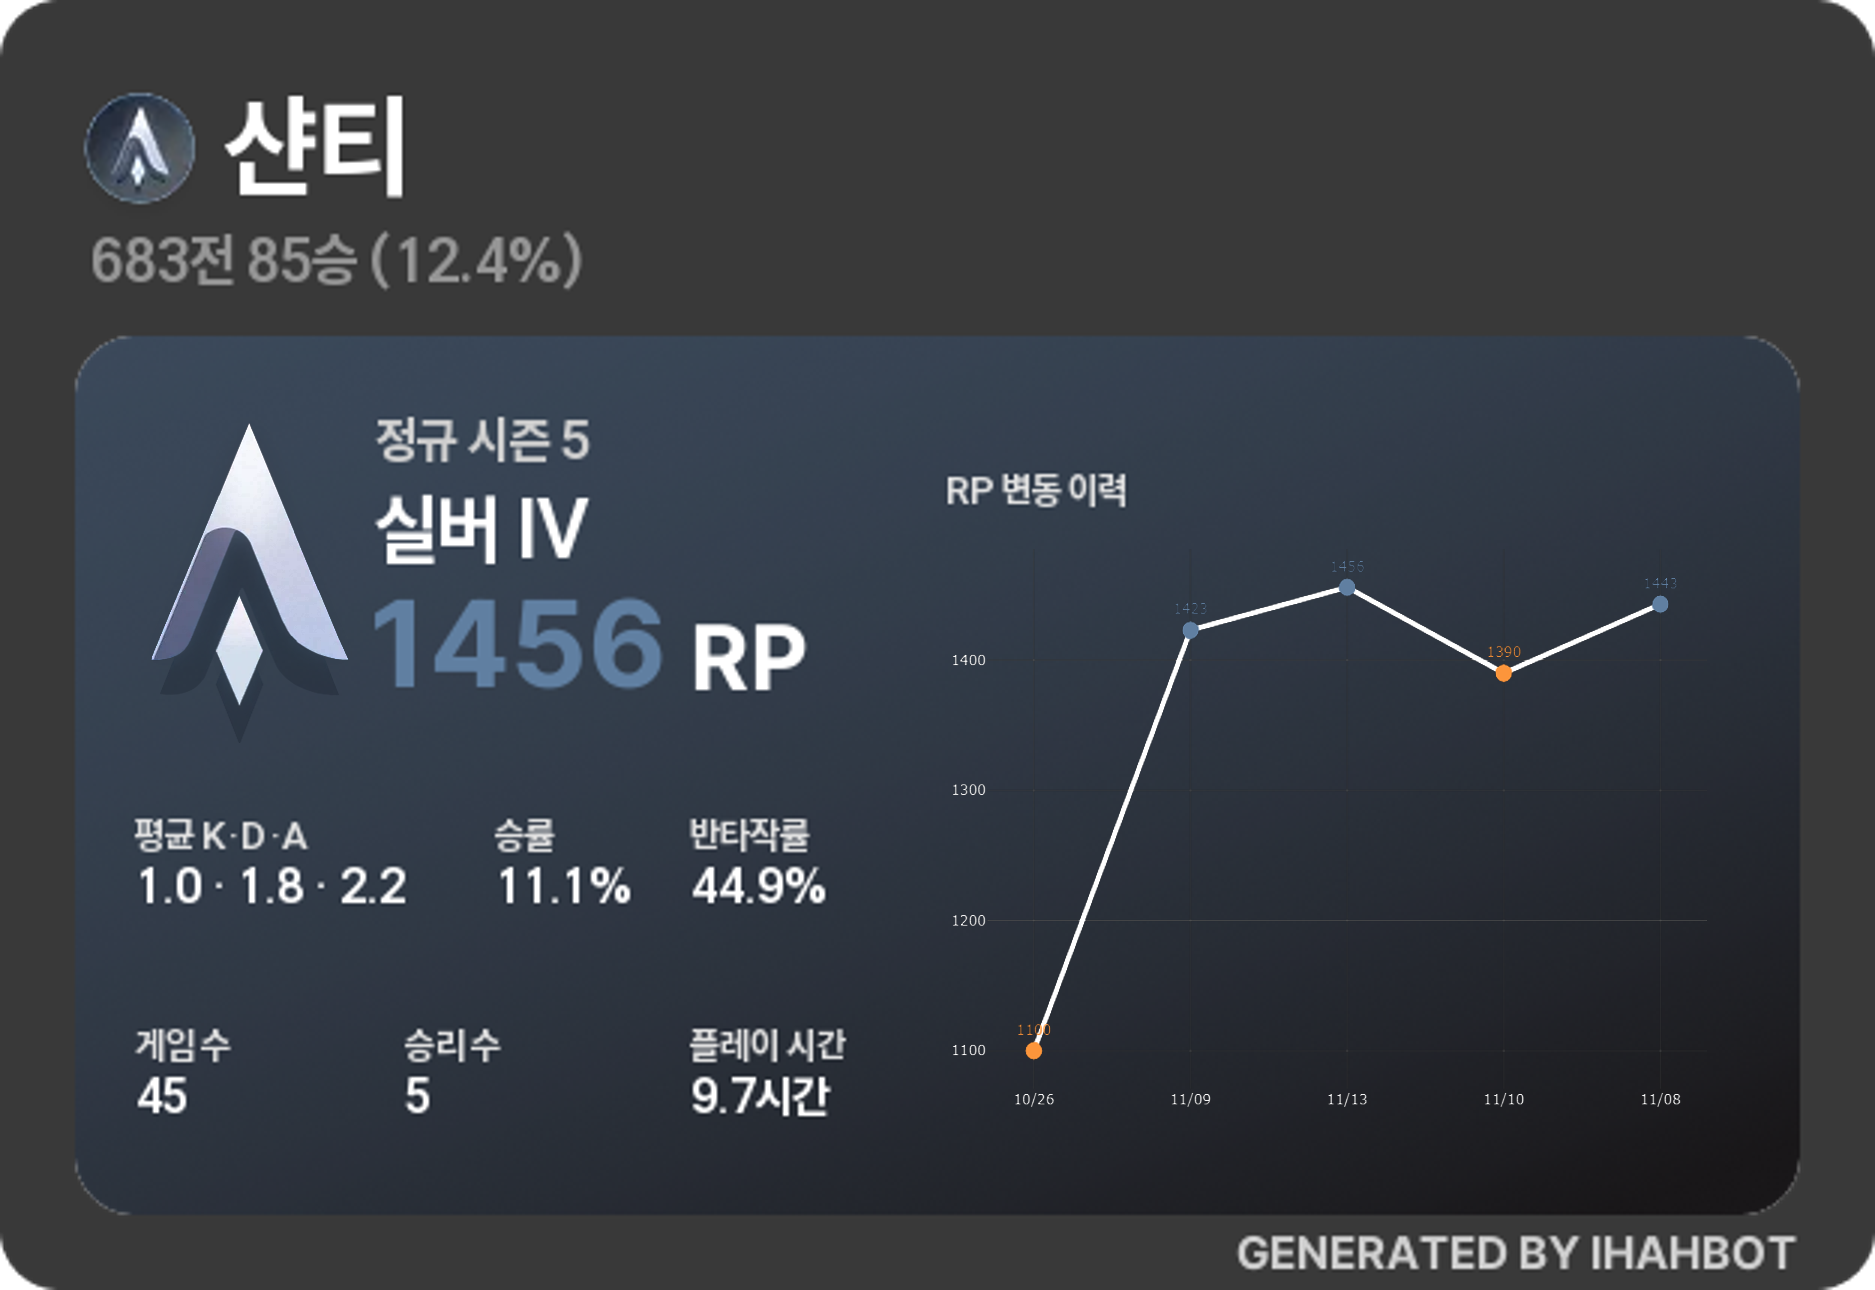
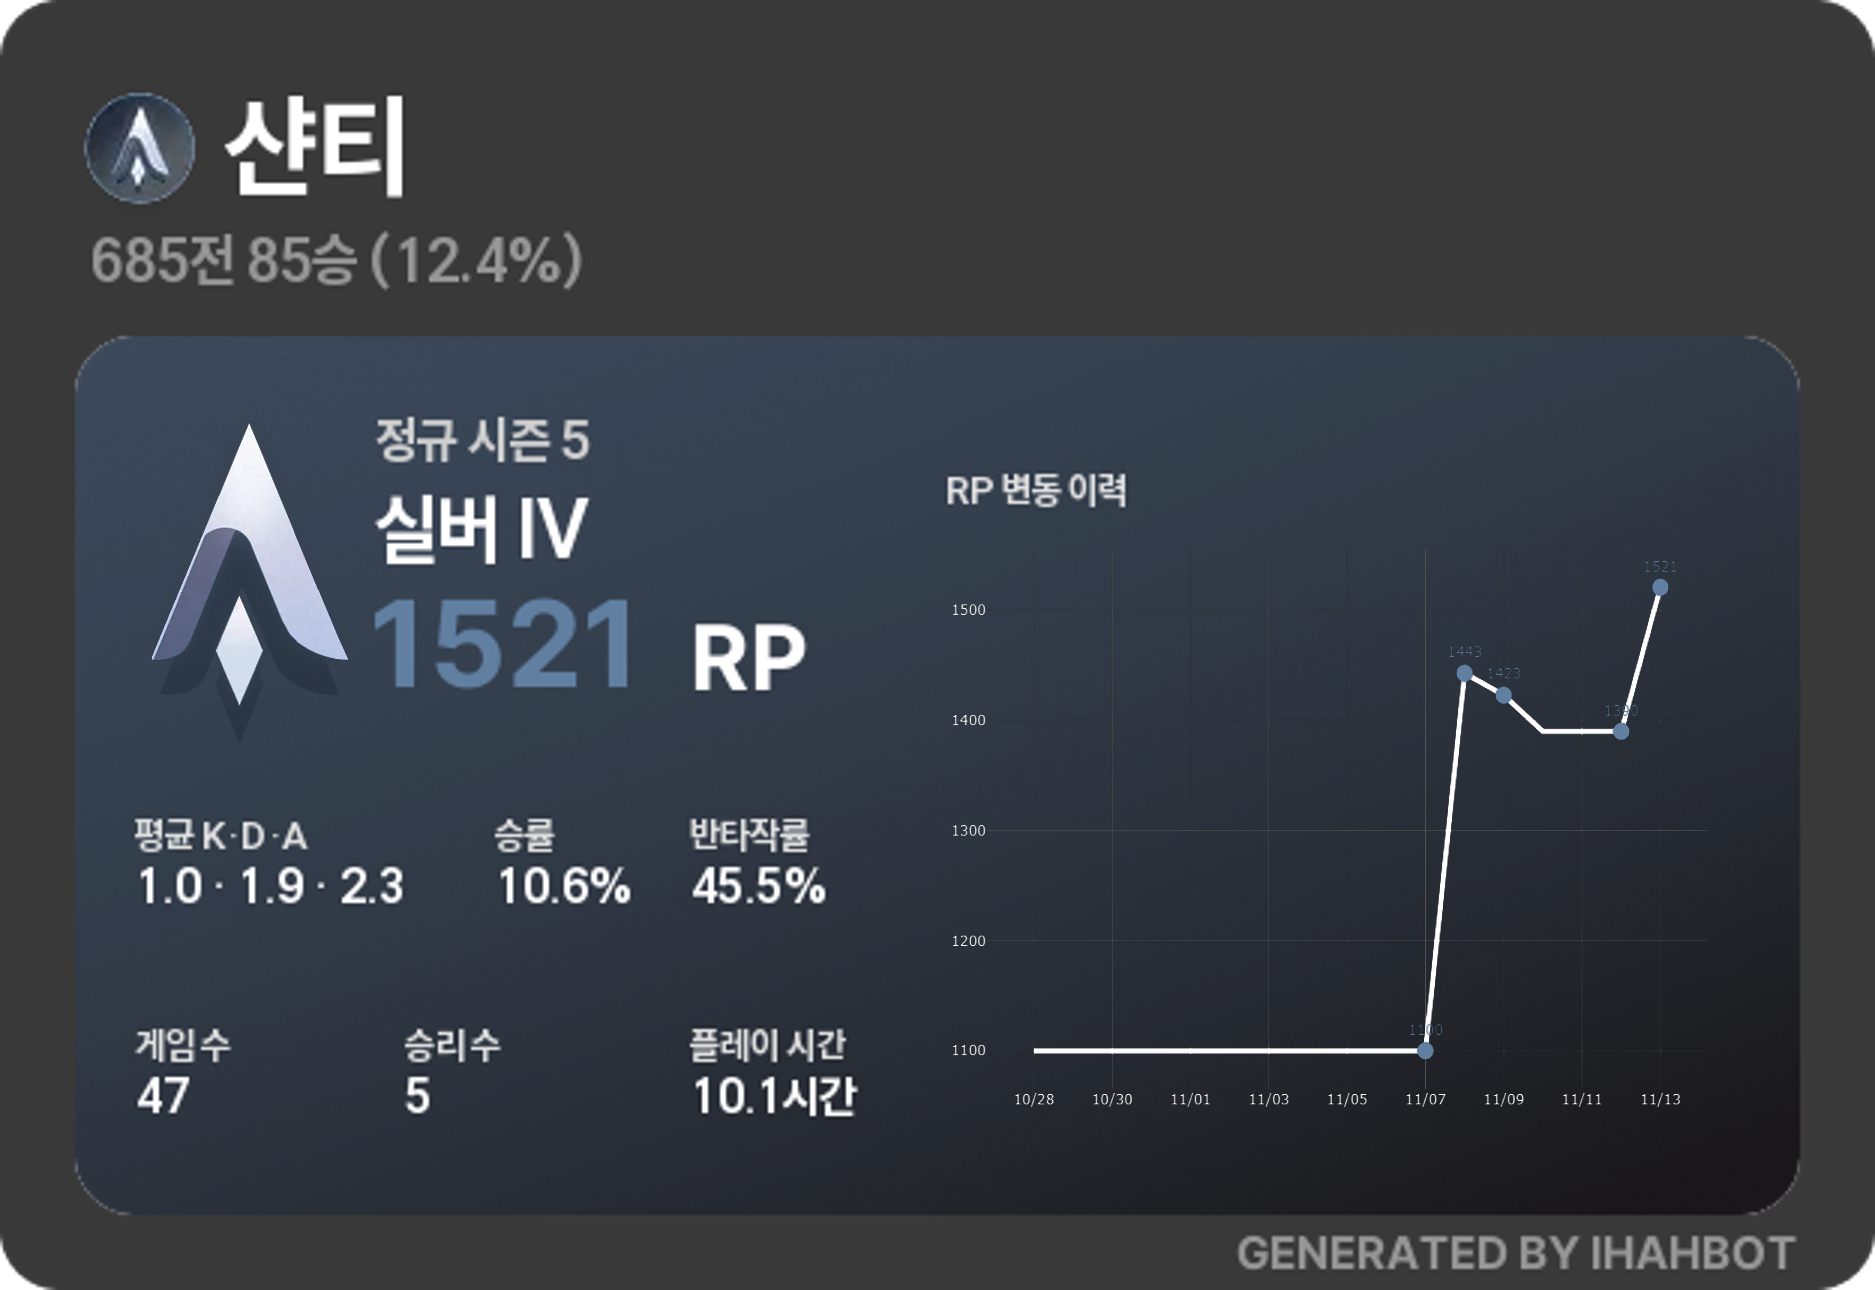
feat: Marker data selection criteria in MMR History were changed and duplicate markers were processed invisible

diff --git a/module/statImage.py b/module/statImage.py
@@ -5,6 +5,8 @@ from module.database import *
 import urllib.request
 import plotly.express as px
 from pandas import DataFrame
+from datetime import datetime
+from dateutil.relativedelta import relativedelta
 
 logger = logging.getLogger("ihahbot.main")
 
@@ -315,14 +317,27 @@ rankTierColors = {
 }
 
 def generateMMRHistoryImage(userId: int, data: dict, tier: str):
-	keys = list(data); keys.reverse(); df = []; tierColors = []; tierColors = []
-	for x in range(len(data)):
-		if x < 5:
-			df.append({ "date": "/".join([keys[x][i:i+2] for i in range(0, len(keys[x]), 2)])[3:], "rp": data[keys[x]]['end']})
-			tier = getTier(data[keys[x]]['end'])
+	keys = list(data); day = datetime.today() + relativedelta(days=-15); df = []; tierColors = []; tierColors = []; opacity = []; dataIndex = None
+	while dataIndex == None:
+		if day.strftime("%y%m%d") in keys: dataIndex = day.strftime("%y%m%d")
+		day += relativedelta(days=-1)
+	day = datetime.today() + relativedelta(days=-16)
+	for _ in range(17):
+		if day.strftime("%y%m%d") in keys: dataIndex = day.strftime("%y%m%d")
+		if (
+			day.strftime("%y%m%d") != datetime.today().strftime("%y%m%d")
+	  	) and not (
+			(day + relativedelta(days=1)).strftime("%y%m%d") in keys
+		):
+			opacity.append(0)
+			tierColors.append("rgba(0, 0, 0, 0)")
+		else:
+			opacity.append(1)
 			tierColors.append(rankTierColors[tier])
-	df.reverse(); tierColors.reverse()
-	fig = px.line(DataFrame.from_dict(df), x="date", y="rp", text="rp")
+		df.append({ "date": day.strftime("%m/%d"), "rp": data[dataIndex]['end']})
+		day += relativedelta(days=1)
+	frame = DataFrame.from_dict(df)
+	fig = px.line(frame, x="date", y="rp", text="rp")
 	fig.update_traces(
 		textposition="top center",
 		textfont=dict(
@@ -337,11 +352,12 @@ def generateMMRHistoryImage(userId: int, data: dict, tier: str):
 			colorscale='Viridis',
 			cmin=0,
 			cmax=50,
-			size=15
+			size=15,
+			opacity=opacity
 		)
 	)
 
-	fig.update_xaxes(title=None)
+	fig.update_xaxes(title=None, dtick=2)
 	fig.update_yaxes(title=None, dtick=100)
 	fig.update_layout(
 		margin=dict(
